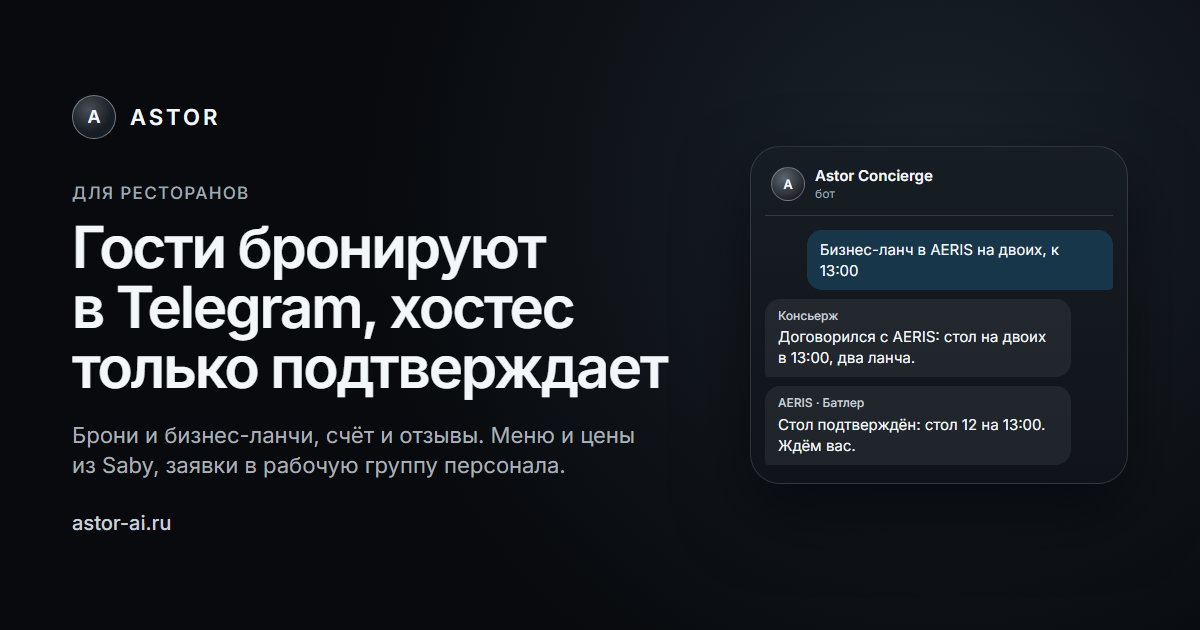
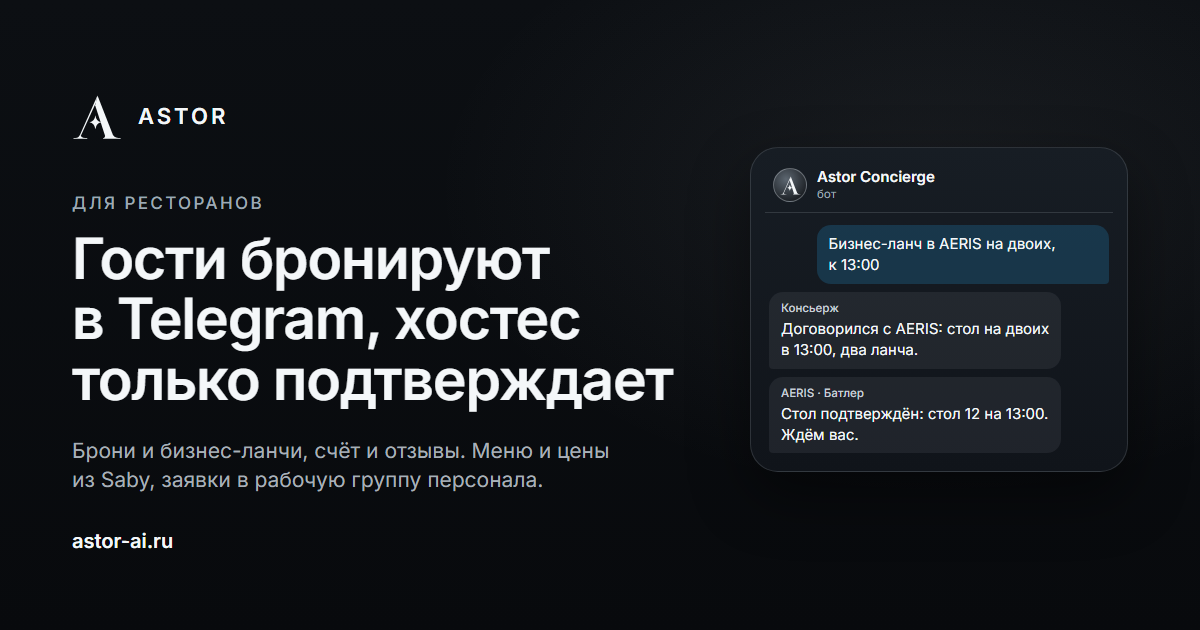
feat(site): new Astor mark – serif A with a star for the crossbar
Roma's new logo (the same mark as the astor-hospitality avatar on GitHub) replaces the
circle with a letter. assets/astor-mark.svg holds the five shapes; pages draw them inline
with fill="currentColor", so the mark is white on graphite and graphite in the light theme.

- landing: header, footer and the Astor bot avatar in the chat mock-ups;
- Butler, Concierge, Glass: the mark instead of the AB/AC/AG circles, next to the name
  in the footer, on the Butler chat button;
- board: top bar and the login box;
- favicon redrawn for 16–32 px (thicker hairline, star set lower), all pages link
  favicon.svg?v=20261023-star so browsers fetch it again;
- og-astor.png (link preview of the landing and Butler) re-rendered with the new mark.

tests/brand-mark.test.mjs checks that every page draws exactly the paths of
assets/astor-mark.svg and that the old letter marks are gone.

diff --git a/frontend/astor-butler/index.html b/frontend/astor-butler/index.html
@@ -18,7 +18,7 @@
 <meta name="twitter:card" content="summary_large_image">
 <meta name="twitter:image" content="https://astor-ai.ru/assets/og-astor.png">
 <meta name="theme-color" content="#080a0d">
-<link rel="icon" type="image/svg+xml" href="assets/favicon.svg?v=20260707-aa">
+<link rel="icon" type="image/svg+xml" href="assets/favicon.svg?v=20261023-star">
 <link rel="preconnect" href="https://fonts.googleapis.com">
 <link rel="preconnect" href="https://fonts.gstatic.com" crossorigin>
 <link rel="stylesheet" href="css/brand-typography.css">
@@ -31,7 +31,7 @@
 <header class="top">
   <div class="wrap top-row">
     <a class="mark" href="./" aria-label="Astor&nbsp;– на главную">
-      <span class="mark-ring" aria-hidden="true">A</span>
+      <svg class="astor-mark" viewBox="116 113 400 400" fill="currentColor" aria-hidden="true" focusable="false"><path d="M320 140L449 470H383L301 219Z"/><path d="M319 143L173 470H183L308 196Z"/><path d="M128 486H238V481C214 481 194 477 186 462H175C168 477 150 481 128 481Z"/><path d="M365 486H505V481C479 481 456 476 447 460H381C380 474 373 481 365 481Z"/><path d="M303 299Q309 349 350 355Q309 361 303 411Q297 361 256 355Q297 349 303 299Z"/></svg>
       <span>Astor</span>
     </a>
     <nav class="top-nav" aria-label="Разделы страницы">
@@ -61,7 +61,7 @@
     <figure class="hero-shot">
       <div class="phone" role="img" aria-label="Чат с консьержем: гость просит бизнес-ланч на двоих в 13:00, консьерж договаривается с AERIS, бот ресторана сообщает, что стол подтверждён">
         <div class="phone-head">
-          <span class="avatar">A</span>
+          <span class="avatar"><svg class="astor-mark" viewBox="116 113 400 400" fill="currentColor" aria-hidden="true" focusable="false"><path d="M320 140L449 470H383L301 219Z"/><path d="M319 143L173 470H183L308 196Z"/><path d="M128 486H238V481C214 481 194 477 186 462H175C168 477 150 481 128 481Z"/><path d="M365 486H505V481C479 481 456 476 447 460H381C380 474 373 481 365 481Z"/><path d="M303 299Q309 349 350 355Q309 361 303 411Q297 361 256 355Q297 349 303 299Z"/></svg></span>
           <span class="phone-title">Astor Concierge<small>бот</small></span>
         </div>
         <div class="chat">
@@ -89,7 +89,7 @@
         </div>
         <div class="phone app" role="img" aria-label="Astor Mini App в Telegram: поле «Куда пойти?», кнопки «Заявка на столик», «Бизнес-ланч», «Вопрос ресторану» и «Позвать друзей», AERIS подключён, ещё 28 мест скоро в Astor">
           <div class="phone-head">
-            <span class="avatar">A</span>
+            <span class="avatar"><svg class="astor-mark" viewBox="116 113 400 400" fill="currentColor" aria-hidden="true" focusable="false"><path d="M320 140L449 470H383L301 219Z"/><path d="M319 143L173 470H183L308 196Z"/><path d="M128 486H238V481C214 481 194 477 186 462H175C168 477 150 481 128 481Z"/><path d="M365 486H505V481C479 481 456 476 447 460H381C380 474 373 481 365 481Z"/><path d="M303 299Q309 349 350 355Q309 361 303 411Q297 361 256 355Q297 349 303 299Z"/></svg></span>
             <span class="phone-title">Astor<small>мини-приложение</small></span>
           </div>
           <div class="app-body">
@@ -115,7 +115,7 @@
         </div>
         <div class="phone" role="img" aria-label="Гость отправляет консьержу голосовое сообщение про бизнес-ланч на двоих к 13:00, консьерж отвечает, что спрашивает AERIS">
           <div class="phone-head">
-            <span class="avatar">A</span>
+            <span class="avatar"><svg class="astor-mark" viewBox="116 113 400 400" fill="currentColor" aria-hidden="true" focusable="false"><path d="M320 140L449 470H383L301 219Z"/><path d="M319 143L173 470H183L308 196Z"/><path d="M128 486H238V481C214 481 194 477 186 462H175C168 477 150 481 128 481Z"/><path d="M365 486H505V481C479 481 456 476 447 460H381C380 474 373 481 365 481Z"/><path d="M303 299Q309 349 350 355Q309 361 303 411Q297 361 256 355Q297 349 303 299Z"/></svg></span>
             <span class="phone-title">Astor Concierge<small>бот</small></span>
           </div>
           <div class="chat">
@@ -134,7 +134,7 @@
         </div>
         <div class="phone" role="img" aria-label="Бот ресторана предлагает стол на двоих в 13:00 и два бизнес-ланча с итоговой суммой, гость отвечает «Да», бот передаёт заявку хостес">
           <div class="phone-head">
-            <span class="avatar">A</span>
+            <span class="avatar"><svg class="astor-mark" viewBox="116 113 400 400" fill="currentColor" aria-hidden="true" focusable="false"><path d="M320 140L449 470H383L301 219Z"/><path d="M319 143L173 470H183L308 196Z"/><path d="M128 486H238V481C214 481 194 477 186 462H175C168 477 150 481 128 481Z"/><path d="M365 486H505V481C479 481 456 476 447 460H381C380 474 373 481 365 481Z"/><path d="M303 299Q309 349 350 355Q309 361 303 411Q297 361 256 355Q297 349 303 299Z"/></svg></span>
             <span class="phone-title">Astor Concierge<small>бот</small></span>
           </div>
           <div class="chat">
@@ -177,7 +177,7 @@
         </div>
         <div class="phone" role="img" aria-label="Гость просит счёт, бот ресторана называет сумму из кассы и пишет, что официант несёт счёт, затем просит оценить визит от 1 до 5, гость ставит 5">
           <div class="phone-head">
-            <span class="avatar">A</span>
+            <span class="avatar"><svg class="astor-mark" viewBox="116 113 400 400" fill="currentColor" aria-hidden="true" focusable="false"><path d="M320 140L449 470H383L301 219Z"/><path d="M319 143L173 470H183L308 196Z"/><path d="M128 486H238V481C214 481 194 477 186 462H175C168 477 150 481 128 481Z"/><path d="M365 486H505V481C479 481 456 476 447 460H381C380 474 373 481 365 481Z"/><path d="M303 299Q309 349 350 355Q309 361 303 411Q297 361 256 355Q297 349 303 299Z"/></svg></span>
             <span class="phone-title">Astor Concierge<small>бот</small></span>
           </div>
           <div class="chat">
@@ -299,7 +299,7 @@
   <div class="wrap footer-grid">
     <div class="footer-brand">
       <a class="mark" href="./" aria-label="Astor&nbsp;– на главную">
-        <span class="mark-ring" aria-hidden="true">A</span>
+        <svg class="astor-mark" viewBox="116 113 400 400" fill="currentColor" aria-hidden="true" focusable="false"><path d="M320 140L449 470H383L301 219Z"/><path d="M319 143L173 470H183L308 196Z"/><path d="M128 486H238V481C214 481 194 477 186 462H175C168 477 150 481 128 481Z"/><path d="M365 486H505V481C479 481 456 476 447 460H381C380 474 373 481 365 481Z"/><path d="M303 299Q309 349 350 355Q309 361 303 411Q297 361 256 355Q297 349 303 299Z"/></svg>
         <span>Astor</span>
       </a>
       <p>Брони, бизнес-ланчи и&nbsp;отзывы гостей для ресторанов через Telegram.</p>

diff --git a/frontend/astor-butler/astor_butler/index.html b/frontend/astor-butler/astor_butler/index.html
@@ -17,7 +17,7 @@
 <meta name="twitter:card" content="summary_large_image">
 <meta name="twitter:image" content="https://astor-ai.ru/assets/og-astor.png">
 <meta name="theme-color" content="#0b0a08">
-<link rel="icon" type="image/svg+xml" href="../assets/favicon.svg?v=20260707-aa">
+<link rel="icon" type="image/svg+xml" href="../assets/favicon.svg?v=20261023-star">
 <link rel="preconnect" href="https://fonts.googleapis.com">
 <link rel="preconnect" href="https://fonts.gstatic.com" crossorigin>
 <link rel="stylesheet" href="../css/brand-typography.css">
@@ -44,7 +44,7 @@
   <canvas class="hero-dust" id="heroDust" aria-hidden="true"></canvas>
   <div class="hero-inner">
     <div class="hero-brand rise" style="--d:0" aria-label="Astor Butler">
-      <span class="brand-monogram" aria-hidden="true">AB</span>
+      <svg class="astor-mark" viewBox="116 113 400 400" fill="currentColor" aria-hidden="true" focusable="false"><path d="M320 140L449 470H383L301 219Z"/><path d="M319 143L173 470H183L308 196Z"/><path d="M128 486H238V481C214 481 194 477 186 462H175C168 477 150 481 128 481Z"/><path d="M365 486H505V481C479 481 456 476 447 460H381C380 474 373 481 365 481Z"/><path d="M303 299Q309 349 350 355Q309 361 303 411Q297 361 256 355Q297 349 303 299Z"/></svg>
       <span class="hero-brand-name">Astor Butler</span>
     </div>
 
@@ -210,7 +210,7 @@
     <a href="../docs/brand.html">Бренд-гайд</a>
   </nav>
   <footer class="footer">
-    <div class="footer-logo">ASTOR BUTLER</div>
+    <div class="footer-logo"><svg class="astor-mark" viewBox="116 113 400 400" fill="currentColor" aria-hidden="true" focusable="false"><path d="M320 140L449 470H383L301 219Z"/><path d="M319 143L173 470H183L308 196Z"/><path d="M128 486H238V481C214 481 194 477 186 462H175C168 477 150 481 128 481Z"/><path d="M365 486H505V481C479 481 456 476 447 460H381C380 474 373 481 365 481Z"/><path d="M303 299Q309 349 350 355Q309 361 303 411Q297 361 256 355Q297 349 303 299Z"/></svg><span>ASTOR BUTLER</span></div>
     <p>Бот ресторана в Telegram · брони, бизнес-ланч, счёт и отзывы</p>
     <p><a class="footer-link" href="../policy.html">Политика конфиденциальности</a></p>
   </footer>
@@ -219,7 +219,7 @@
 </main>
 
 <div class="chat-widget" id="chatWidget" aria-hidden="true">
-  <button type="button" class="chat-fab" id="chatFab" aria-label="Открыть чат Astor">A</button>
+  <button type="button" class="chat-fab" id="chatFab" aria-label="Открыть чат Astor"><svg class="astor-mark" viewBox="116 113 400 400" fill="currentColor" aria-hidden="true" focusable="false"><path d="M320 140L449 470H383L301 219Z"/><path d="M319 143L173 470H183L308 196Z"/><path d="M128 486H238V481C214 481 194 477 186 462H175C168 477 150 481 128 481Z"/><path d="M365 486H505V481C479 481 456 476 447 460H381C380 474 373 481 365 481Z"/><path d="M303 299Q309 349 350 355Q309 361 303 411Q297 361 256 355Q297 349 303 299Z"/></svg></button>
   <section class="chat-panel" aria-label="Чат Astor">
     <div class="chat-head">
       <div class="chat-head-title"><strong>Astor Butler</strong><span class="chat-status">Вопросы о внедрении</span></div>

diff --git a/frontend/astor-butler/css/style.css b/frontend/astor-butler/css/style.css
@@ -643,22 +643,9 @@ body.light-theme .hero::before {
   border: 1px solid color-mix(in srgb, var(--metal) 36%, transparent);
 }
 
-.brand-monogram {
-  display: inline-grid;
-  place-items: center;
-  width: 44px;
-  height: 44px;
-  border-radius: 50%;
-  border: 1px solid color-mix(in srgb, var(--metal) 48%, transparent);
-  background:
-    radial-gradient(circle at 42% 34%, color-mix(in srgb, var(--metal) 24%, transparent), transparent 42%),
-    linear-gradient(145deg, var(--surface-strong), color-mix(in srgb, var(--ink-2) 88%, transparent));
-  color: var(--gold-soft);
-  font-weight: var(--brand-weight-semibold);
-  font-size: 0.78rem;
-  letter-spacing: 0.08em;
-  box-shadow: 0 0 28px color-mix(in srgb, var(--metal) 18%, transparent), inset 0 0 18px rgba(0,0,0,0.24);
-}
+/* Знак Astor – засечная «A» со звездой вместо перекладины, пути те же, что в assets/astor-mark.svg. */
+.astor-mark { display: block; flex: none; width: 44px; height: 44px; }
+.hero-brand .astor-mark { color: var(--paper); }
 
 .hero-brand-name {
   font-family: var(--font-display);
@@ -1083,7 +1070,8 @@ body.light-theme .hero::before {
 .doc-links a:hover { color: var(--gold-soft); }
 
 .footer { margin-top: var(--space-3xl); padding-top: var(--space-2xl); border-top: 1px solid color-mix(in srgb, var(--paper) 7%, transparent); }
-.footer-logo { font-family: var(--font-display); letter-spacing: 0; font-size: 1rem; margin-bottom: 0.6em; }
+.footer-logo { display: inline-flex; align-items: center; gap: 0.6em; font-family: var(--font-display); letter-spacing: 0; font-size: 1rem; margin-bottom: 0.6em; }
+.footer-logo .astor-mark { width: 28px; height: 28px; }
 .footer-key { color: var(--gold); padding: 0 0.2em; }
 .footer p { color: var(--paper-dim); font-size: 0.82rem; }
 .footer-link { color: var(--paper-dim); text-decoration: none; border-bottom: 1px solid color-mix(in srgb, var(--paper) 25%, transparent); transition: color 0.25s, border-color 0.25s; }
@@ -1105,6 +1093,7 @@ body.light-theme .hero::before {
   box-shadow: 0 12px 32px rgba(0,0,0,0.5);
   transition: transform 0.25s var(--ease-lux), border-color 0.25s var(--ease-lux);
 }
+.chat-fab .astor-mark { width: 30px; height: 30px; }
 .chat-fab:hover { border-color: color-mix(in srgb, var(--gold-soft) 60%, transparent); }
 .chat-fab:hover, .chat-fab:focus-visible { transform: translateY(-3px) scale(1.05); }
 .chat-fab:focus-visible { outline: 2px solid var(--paper); outline-offset: 3px; }
@@ -1205,7 +1194,7 @@ body.light-theme .hero::before {
   .hero-inner { padding: 0 1.25rem; }
   .reveal { filter: none; }
   .hero-brand { margin-bottom: 1.6rem; }
-  .hero-brand-mark, .brand-monogram { width: 38px; height: 38px; }
+  .hero-brand-mark, .hero-brand .astor-mark { width: 38px; height: 38px; }
   .hero-hook { font-size: clamp(1.6rem, 8vw, 2rem); }
   .hero-sub { font-size: 0.98rem; max-width: 34ch; }
   .hero-cta { margin-top: 1.6rem; flex-direction: column; align-items: stretch; }

diff --git a/frontend/astor-butler/astor_concierge/index.html b/frontend/astor-butler/astor_concierge/index.html
@@ -17,7 +17,7 @@
 <meta name="twitter:card" content="summary_large_image">
 <meta name="twitter:image" content="https://astor-assist.vercel.app/assets/og-astor-assist.png">
 <meta name="theme-color" content="#0b0a08">
-<link rel="icon" type="image/svg+xml" href="../assets/favicon.svg?v=20260707-aa">
+<link rel="icon" type="image/svg+xml" href="../assets/favicon.svg?v=20261023-star">
 <link rel="preconnect" href="https://fonts.googleapis.com">
 <link rel="preconnect" href="https://fonts.gstatic.com" crossorigin>
 <link rel="stylesheet" href="../css/brand-typography.css">
@@ -44,7 +44,7 @@
   <canvas class="hero-dust" id="heroDust" aria-hidden="true"></canvas>
   <div class="hero-inner">
     <div class="hero-brand rise" style="--d:0" aria-label="Astor Concierge">
-      <span class="brand-monogram" aria-hidden="true">AC</span>
+      <svg class="astor-mark" viewBox="116 113 400 400" fill="currentColor" aria-hidden="true" focusable="false"><path d="M320 140L449 470H383L301 219Z"/><path d="M319 143L173 470H183L308 196Z"/><path d="M128 486H238V481C214 481 194 477 186 462H175C168 477 150 481 128 481Z"/><path d="M365 486H505V481C479 481 456 476 447 460H381C380 474 373 481 365 481Z"/><path d="M303 299Q309 349 350 355Q309 361 303 411Q297 361 256 355Q297 349 303 299Z"/></svg>
       <span class="hero-brand-name">Astor Concierge</span>
     </div>
 
@@ -182,7 +182,7 @@
     <a href="../astor_glass/" class="btn btn-quiet">Для команды</a>
   </div>
   <footer class="footer">
-    <div class="footer-logo">ASTOR CONCIERGE</div>
+    <div class="footer-logo"><svg class="astor-mark" viewBox="116 113 400 400" fill="currentColor" aria-hidden="true" focusable="false"><path d="M320 140L449 470H383L301 219Z"/><path d="M319 143L173 470H183L308 196Z"/><path d="M128 486H238V481C214 481 194 477 186 462H175C168 477 150 481 128 481Z"/><path d="M365 486H505V481C479 481 456 476 447 460H381C380 474 373 481 365 481Z"/><path d="M303 299Q309 349 350 355Q309 361 303 411Q297 361 256 355Q297 349 303 299Z"/></svg><span>ASTOR CONCIERGE</span></div>
     <p>Консьерж для событий, фестивалей и городских программ · персонализируется под бренд заказчика</p>
     <p><a class="footer-link" href="../policy.html">Политика конфиденциальности</a></p>
   </footer>

diff --git a/frontend/astor-butler/board/index.html b/frontend/astor-butler/board/index.html
@@ -8,7 +8,7 @@
 <meta name="robots" content="noindex, nofollow">
 <meta name="referrer" content="no-referrer">
 <meta name="theme-color" content="#0e1216">
-<link rel="icon" type="image/svg+xml" href="../assets/favicon.svg?v=20260707-aa">
+<link rel="icon" type="image/svg+xml" href="../assets/favicon.svg?v=20261023-star">
 <link rel="stylesheet" href="../css/brand-typography.css">
 <link rel="stylesheet" href="../css/board.css">
 <script type="module" src="../js/board.js"></script>
@@ -17,6 +17,7 @@
 
 <div class="login" id="login">
   <form class="login-box" id="loginForm" autocomplete="off">
+    <svg class="astor-mark" viewBox="116 113 400 400" fill="currentColor" aria-hidden="true" focusable="false"><path d="M320 140L449 470H383L301 219Z"/><path d="M319 143L173 470H183L308 196Z"/><path d="M128 486H238V481C214 481 194 477 186 462H175C168 477 150 481 128 481Z"/><path d="M365 486H505V481C479 481 456 476 447 460H381C380 474 373 481 365 481Z"/><path d="M303 299Q309 349 350 355Q309 361 303 411Q297 361 256 355Q297 349 303 299Z"/></svg>
     <h1>Astor · Табло</h1>
     <p>Табло закрыто. Введите токен табло.</p>
     <label for="token">Токен</label>
@@ -28,7 +29,7 @@
 
 <div class="frame">
   <header class="topbar">
-    <div class="brand">Astor · Табло <small>AERIS · <span id="today"></span> · <span id="status" role="status">—</span></small></div>
+    <div class="brand"><svg class="astor-mark" viewBox="116 113 400 400" fill="currentColor" aria-hidden="true" focusable="false"><path d="M320 140L449 470H383L301 219Z"/><path d="M319 143L173 470H183L308 196Z"/><path d="M128 486H238V481C214 481 194 477 186 462H175C168 477 150 481 128 481Z"/><path d="M365 486H505V481C479 481 456 476 447 460H381C380 474 373 481 365 481Z"/><path d="M303 299Q309 349 350 355Q309 361 303 411Q297 361 256 355Q297 349 303 299Z"/></svg>Astor · Табло <small>AERIS · <span id="today"></span> · <span id="status" role="status">—</span></small></div>
     <nav class="nav" role="tablist" aria-label="Разделы табло">
       <button type="button" role="tab" data-tab="today" aria-selected="false">Сегодня</button>
       <button type="button" role="tab" data-tab="visits" aria-selected="true">Визиты</button>

diff --git a/frontend/astor-butler/astor_glass/index.html b/frontend/astor-butler/astor_glass/index.html
@@ -17,7 +17,7 @@
 <meta name="twitter:card" content="summary_large_image">
 <meta name="twitter:image" content="https://astor-assist.vercel.app/assets/og-astor-assist.png">
 <meta name="theme-color" content="#0b0a08">
-<link rel="icon" type="image/svg+xml" href="../assets/favicon.svg?v=20260707-aa">
+<link rel="icon" type="image/svg+xml" href="../assets/favicon.svg?v=20261023-star">
 <link rel="preconnect" href="https://fonts.googleapis.com">
 <link rel="preconnect" href="https://fonts.gstatic.com" crossorigin>
 <link rel="stylesheet" href="../css/brand-typography.css">
@@ -44,7 +44,7 @@
   <canvas class="hero-dust" id="heroDust" aria-hidden="true"></canvas>
   <div class="hero-inner">
     <div class="hero-brand rise" style="--d:0" aria-label="Astor Glass">
-      <span class="brand-monogram" aria-hidden="true">AG</span>
+      <svg class="astor-mark" viewBox="116 113 400 400" fill="currentColor" aria-hidden="true" focusable="false"><path d="M320 140L449 470H383L301 219Z"/><path d="M319 143L173 470H183L308 196Z"/><path d="M128 486H238V481C214 481 194 477 186 462H175C168 477 150 481 128 481Z"/><path d="M365 486H505V481C479 481 456 476 447 460H381C380 474 373 481 365 481Z"/><path d="M303 299Q309 349 350 355Q309 361 303 411Q297 361 256 355Q297 349 303 299Z"/></svg>
       <span class="hero-brand-name">Astor Glass</span>
     </div>
 
@@ -185,7 +185,7 @@
     <a href="../astor_concierge/" class="btn btn-quiet">Для событий</a>
   </div>
   <footer class="footer">
-    <div class="footer-logo">ASTOR GLASS</div>
+    <div class="footer-logo"><svg class="astor-mark" viewBox="116 113 400 400" fill="currentColor" aria-hidden="true" focusable="false"><path d="M320 140L449 470H383L301 219Z"/><path d="M319 143L173 470H183L308 196Z"/><path d="M128 486H238V481C214 481 194 477 186 462H175C168 477 150 481 128 481Z"/><path d="M365 486H505V481C479 481 456 476 447 460H381C380 474 373 481 365 481Z"/><path d="M303 299Q309 349 350 355Q309 361 303 411Q297 361 256 355Q297 349 303 299Z"/></svg><span>ASTOR GLASS</span></div>
     <p>Умные очки для команды заведения · пилот</p>
     <p><a class="footer-link" href="../policy.html">Политика конфиденциальности</a></p>
   </footer>

diff --git a/frontend/astor-butler/css/story.css b/frontend/astor-butler/css/story.css
@@ -108,13 +108,8 @@ a:focus-visible, .btn:focus-visible { outline: 2px solid var(--metal); outline-o
   font-size: 0.95rem; font-weight: var(--brand-weight-semibold);
   letter-spacing: 0.12em; text-transform: uppercase; text-decoration: none;
 }
-.mark-ring {
-  display: inline-grid; place-items: center;
-  width: 30px; height: 30px; border-radius: 50%;
-  border: 1px solid rgba(200, 208, 216, 0.5);
-  background: radial-gradient(circle at 38% 32%, rgba(200, 208, 216, 0.28), transparent 60%), var(--ink-3);
-  font-size: 0.8rem; letter-spacing: 0;
-}
+/* Знак Astor – засечная «A» со звездой вместо перекладины, пути те же, что в assets/astor-mark.svg. */
+.astor-mark { display: block; flex: none; width: 32px; height: 32px; }
 
 .top-nav { display: none; gap: 28px; font-size: 0.92rem; color: var(--paper-dim); }
 .top-nav a { text-decoration: none; }
@@ -157,6 +152,7 @@ a:focus-visible, .btn:focus-visible { outline: 2px solid var(--metal); outline-o
   font-size: 0.8rem; font-weight: var(--brand-weight-semibold);
 }
 .avatar-group { background: radial-gradient(circle at 38% 32%, #3b424b, var(--ink)); font-size: 0.68rem; }
+.avatar .astor-mark { width: 20px; height: 20px; }
 .phone-title { display: grid; font-weight: var(--brand-weight-semibold); line-height: 1.25; }
 .phone-title small { font-size: 0.72rem; font-weight: var(--brand-weight-regular); color: var(--silver); }
 

diff --git a/frontend/astor-butler/css/board.css b/frontend/astor-butler/css/board.css
@@ -88,6 +88,9 @@ body.locked .frame { visibility: hidden; }
 }
 .brand { font-weight: var(--brand-weight-semibold); letter-spacing: -.01em; min-width: 0; }
 .brand small { color: var(--muted); font-weight: var(--brand-weight-regular); margin-left: 8px; font-size: 13px; }
+/* Знак Astor – засечная «A» со звездой вместо перекладины, пути те же, что в assets/astor-mark.svg. */
+.brand .astor-mark { display: inline-block; width: 24px; height: 24px; margin-right: 8px; vertical-align: -6px; }
+.login-box .astor-mark { display: block; width: 44px; height: 44px; margin-bottom: 6px; }
 .nav { display: flex; gap: 4px; flex-wrap: wrap; }
 .nav button { border: 0; background: none; padding: 6px 10px; border-radius: 8px; color: var(--muted); font-size: 14px; cursor: pointer; }
 .nav button[aria-selected="true"] { background: var(--panel-2); color: var(--fg); font-weight: var(--brand-weight-medium); }

diff --git a/frontend/astor-butler/docs/offer.html b/frontend/astor-butler/docs/offer.html
@@ -5,7 +5,7 @@
 <meta name="viewport" content="width=device-width, initial-scale=1.0">
 <title>Коммерческое предложение — Astor Butler</title>
 <meta name="description" content="Коммерческое предложение Astor Butler: цифровой дворецкий для ресторана. Первый пакет, стоимость пилота, план продаж.">
-<link rel="icon" type="image/svg+xml" href="../assets/favicon.svg">
+<link rel="icon" type="image/svg+xml" href="../assets/favicon.svg?v=20261023-star">
 <link rel="preconnect" href="https://fonts.googleapis.com">
 <link rel="preconnect" href="https://fonts.gstatic.com" crossorigin>
 <link rel="stylesheet" href="../css/brand-typography.css">

diff --git a/frontend/astor-butler/docs/comparison.html b/frontend/astor-butler/docs/comparison.html
@@ -5,7 +5,7 @@
 <meta name="viewport" content="width=device-width, initial-scale=1.0">
 <title>Сравнение с аналогами — Astor Butler</title>
 <meta name="description" content="Astor Butler рядом с простым Telegram-ботом и enterprise AI-платформой: сценарии, память, staff context, event trail.">
-<link rel="icon" type="image/svg+xml" href="../assets/favicon.svg">
+<link rel="icon" type="image/svg+xml" href="../assets/favicon.svg?v=20261023-star">
 <link rel="preconnect" href="https://fonts.googleapis.com">
 <link rel="preconnect" href="https://fonts.gstatic.com" crossorigin>
 <link rel="stylesheet" href="../css/brand-typography.css">

diff --git a/frontend/astor-butler/policy.html b/frontend/astor-butler/policy.html
@@ -6,7 +6,7 @@
 <title>Политика конфиденциальности — Astor</title>
 <meta name="description" content="Как сервисы Astor обрабатывают данные гостей и сотрудников: Telegram-боты, стаф-портал и приложение Astor Glass.">
 <meta name="robots" content="index, follow">
-<link rel="icon" type="image/svg+xml" href="assets/favicon.svg">
+<link rel="icon" type="image/svg+xml" href="assets/favicon.svg?v=20261023-star">
 <link rel="preconnect" href="https://fonts.googleapis.com">
 <link rel="preconnect" href="https://fonts.gstatic.com" crossorigin>
 <link rel="stylesheet" href="css/brand-typography.css">

diff --git a/frontend/astor-butler/astor_concierge/feed/index.html b/frontend/astor-butler/astor_concierge/feed/index.html
@@ -6,7 +6,7 @@
 <title>Astor Concierge — куда пойти</title>
 <meta name="description" content="Лента заведений Astor Concierge: фото, рейтинг и бронь через команду ресторана.">
 <meta name="theme-color" content="#080a0d">
-<link rel="icon" type="image/svg+xml" href="../../assets/favicon.svg?v=20260707-aa">
+<link rel="icon" type="image/svg+xml" href="../../assets/favicon.svg?v=20261023-star">
 <link rel="preconnect" href="https://fonts.googleapis.com">
 <link rel="preconnect" href="https://fonts.gstatic.com" crossorigin>
 <link rel="stylesheet" href="../../css/brand-typography.css">
